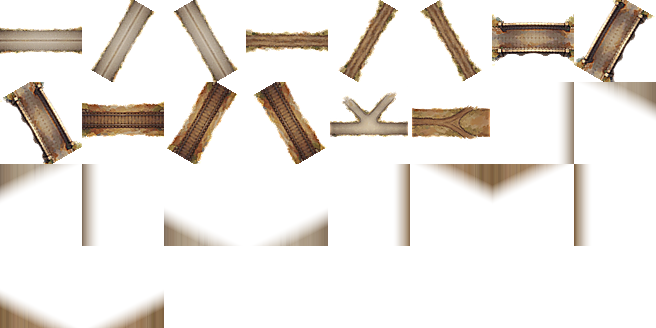
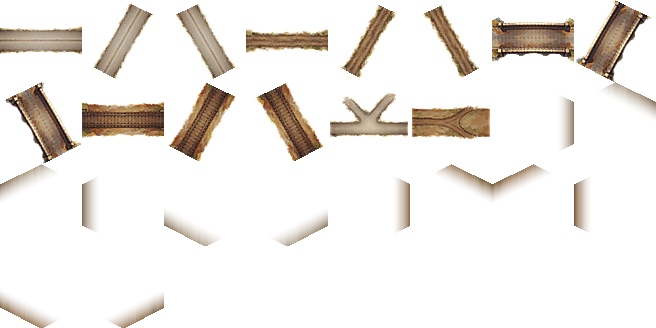
fix(map-art): лист дорог режется гексом — сетка прямоугольников с карты снята
Кадр adventure_ui показывал бежевые прямоугольники поверх гексов. Атрибуция
кадрами со скрытием слоёв: с выключенными TileMapRoad/TileMapRoadEdge_*
прямоугольники исчезают, под ними корректные гексы-дороги.

Причина: build_road_sheet клал клетки на лист без маски гекса, тогда как база и
кромка биомов маскируются (T-143: «непрозрачные углы … рисуют на карте сетку
прямоугольников»). У клетки дороги без соседей-дорог paint_roads рисует полосу
плюс все шесть кромок; каждая — прямоугольник, их объединение = залитый квадрат
клетки. Замер: пиксели вне гекса были у 22 клеток из 26.

- scripts/gen_map_art.py: build_road_sheet применяет hex_mask() — та же мера,
  что у атласа, поэтому перегенерация из raw воспроизводит текущий лист.
- game/assets/objects/world_map_roads{_fog}.webp: лист перемаскирован той же
  hex_mask и побратим тумана пересобран fog_twin() — raw-роли
  game/image-clone/map/raw/road_* в git не лежат (T-351), перегенерация
  невозможна. Срезано 8286 непрозрачных пикселей (47767 → 39481).
- scripts/check_map_art.py: инвариант формы клетки вынесен в hex_shape_check и
  вызывается от каждого носителя; добавлен roads/hex-shape. Гейт листа манифест
  дорог не читал вовсе — этим дефект и прошёл. До правки FAIL (22 из 26),
  после PASS (0 из 26).
- game/tests/smoke/test_compile_all.gd: concept_art в SKIP — gitignored выход
  генератора концепт-арта (krea2/, чужая работа в рабочем дереве) красил smoke
  тем же классом, что tmp/fixture_hero4.gd из урока 2026-11-02.
[…]

diff --git a/scripts/check_map_art.py b/scripts/check_map_art.py
@@ -48,6 +48,7 @@ CONFIG = os.path.join(ROOT, "game/data/config/map_art_gates.json")
 # Превью-атлас клетки вне дерева ассетов (T-344): клетку рисует HexCellArt.
 ATLAS = os.path.join(ROOT, "tmp/map_art/world_map_atlas.json")
 OBJECTS = os.path.join(ROOT, "game/assets/objects/world_map_objects.json")
+ROADS = os.path.join(ROOT, "game/assets/objects/world_map_roads.json")
 PROVENANCE = os.path.join(ROOT, "game/assets/PROVENANCE.md")
 PATCH = 8          # во сколько сжимается патч клетки перед сравнением
 COLOR_BITS = 5     # квант канала в патче: 5 бит гасит шум сжатия, но не склеивает тайлы
@@ -208,6 +209,46 @@ def _lattice_shifts(cells: dict) -> list[tuple[int, int]]:
                 d = (-d[0], -d[1])
             counts[d] = counts.get(d, 0) + 1
     return [d for d, _ in sorted(counts.items(), key=lambda kv: -kv[1])[:3]]
+
+
+def hex_shape_check(label: str, manifest: dict, rgba, tile: int,
+                    cfg: dict) -> tuple[str, bool, str]:
+    """Форма клетки: каждый тайл обязан быть вырезан тем же гексом, что рисует
+    движок. Квадратная (непрозрачная по всему кваду) клетка в гекс-тайлсете красит
+    прямые углы поверх соседей: ряды кладутся с шагом 3/4 высоты, квады наезжают,
+    и по карте идёт сетка прямоугольников (T-143, глазной вердикт 11.3 «налепанные
+    заплаты»). Меряются и базы, и декали границы, и декали дорог — дефект один,
+    поэтому проверка одна и вызывается от каждого носителя."""
+    mask = np.asarray(hex_mask(tile), dtype=np.uint8)
+    hex_in = np.asarray(Image.fromarray(mask).filter(ImageFilter.MinFilter(5))) > 0
+    hex_out = np.asarray(Image.fromarray(mask).filter(ImageFilter.MaxFilter(5))) < 250
+    bad = []
+    for c in manifest["cells"]:
+        x, y = int(c["atlas"][0]) * tile, int(c["atlas"][1]) * tile
+        alpha = np.asarray(rgba.crop((x, y, x + tile, y + tile)))[:, :, 3]
+        opaque = float(alpha[hex_in].mean()) / 255.0 >= float(cfg["atlas"]["min_base_opacity"])
+        corner = float(alpha[hex_out].max()) <= float(cfg["atlas"]["max_base_corner_alpha"])
+        # Внутри гекса декаль обязан полупрозрачным пером — это его природа
+        # (`atlas/decal-tone`), поэтому требовать от него непрозрачности нельзя.
+        if not corner or (c["kind"] == "base" and not opaque):
+            bad.append(c["id"])
+    return (f"{label}/hex-shape", not bad,
+            f"клеток вне гекса {len(bad)} из {len(manifest['cells'])} (порог "
+            f"{float(cfg['atlas']['min_base_opacity']):.2f} непрозрачных внутри гекса, "
+            f"угол ≤{float(cfg['atlas']['max_base_corner_alpha']):.0f})"
+            + (f" — {bad[:4]}" if bad else ""))
+
+
+def roads_checks(manifest_path: str, cfg: dict) -> list[tuple[str, bool, str]]:
+    """Лист дорог — носитель того же гекс-тайлсета, что база, и немаскированная
+    клетка рисует на карте прямоугольник (кадр adventure_ui, 2026-11-08: слой
+    дорог = сетка бежевых прямоугольников). Из атласных мер здесь одна форма
+    клетки: тонов, вариантов и швов у дорог нет."""
+    with open(manifest_path, encoding="utf-8") as f:
+        manifest = json.load(f)
+    rgba = Image.open(os.path.join(os.path.dirname(manifest_path),
+                                   manifest["image"])).convert("RGBA")
+    return [hex_shape_check("roads", manifest, rgba, int(manifest["tile"]), cfg)]
 
 
 def atlas_checks(manifest_path: str, cfg: dict) -> list[tuple[str, bool, str]]:
@@ -376,21 +417,7 @@ def atlas_checks(manifest_path: str, cfg: dict) -> list[tuple[str, bool, str]]:
     # тайлсете красит прямые углы поверх соседей: ряды кладутся с шагом 3/4 высоты,
     # квады наезжают, и по карте идёт сетка прямоугольников (T-143, глазной вердикт
     # 11.3 «налепанные заплаты»). Меряются и базы, и декали границы — дефект один.
-    bad = []
-    for c in manifest["cells"]:
-        x, y = int(c["atlas"][0]) * tile, int(c["atlas"][1]) * tile
-        alpha = np.asarray(rgba.crop((x, y, x + tile, y + tile)))[:, :, 3]
-        opaque = float(alpha[hex_in].mean()) / 255.0 >= float(cfg["atlas"]["min_base_opacity"])
-        corner = float(alpha[hex_out].max()) <= float(cfg["atlas"]["max_base_corner_alpha"])
-        # Внутри гекса декаль обязан полупрозрачным пером — это его природа
-        # (`atlas/decal-tone`), поэтому требовать от него непрозрачности нельзя.
-        if not corner or (c["kind"] == "base" and not opaque):
-            bad.append(c["id"])
-    out.append(("atlas/hex-shape", not bad,
-                f"клеток вне гекса {len(bad)} из {len(manifest['cells'])} (порог "
-                f"{float(cfg['atlas']['min_base_opacity']):.2f} непрозрачных внутри гекса, "
-                f"угол ≤{float(cfg['atlas']['max_base_corner_alpha']):.0f})"
-                + (f" — {bad[:4]}" if bad else "")))
+    out.append(hex_shape_check("atlas", manifest, rgba, tile, cfg))
 
     # — замыкание переходов: у каждого биома все шесть направлений (см. test_tile_transitions) —
     # Словарь сторон = рёбра остроконечного шестиугольника: сетка odd-r
@@ -810,6 +837,7 @@ def main() -> int:
     ap.add_argument("--config", default=CONFIG)
     ap.add_argument("--atlas", default=ATLAS)
     ap.add_argument("--objects", default=OBJECTS)
+    ap.add_argument("--roads", default=ROADS)
     ap.add_argument("--json", action="store_true")
     ap.add_argument("--self-test", action="store_true",
                     help="мутационная проверка гардов на синтетическом образце")
@@ -832,7 +860,8 @@ def main() -> int:
     else:
         skipped.append(("frame/*", "нет --shot: базовый снимок не переснят"))
     for label, path, run in (("atlas/*", args.atlas, atlas_checks),
-                             ("objects/*", args.objects, object_checks)):
+                             ("objects/*", args.objects, object_checks),
+                             ("roads/*", args.roads, roads_checks)):
         if os.path.exists(path):
             checks += run(path, cfg)
         else:

diff --git a/scripts/gen_map_art.py b/scripts/gen_map_art.py
@@ -487,7 +487,14 @@ def build_road_sheet(roads: list[dict]) -> list[dict]:
                  "surface": surface(role), "side": side}, path)
 
     sheet = Image.new("RGBA", (8 * TILE, math.ceil(len(tiles) / 8) * TILE), (0, 0, 0, 0))
+    mask = hex_mask()
     for i, t in enumerate(tiles):
+        t = t.convert("RGBA")
+        # Маска гекса — та же, что у базы и кромки биомов (T-143): движок рисует
+        # каждый тайл квадратным квадом, поэтому немаскированные углы полосы и все
+        # шесть кромок клетки без соседей-дорог складываются в залитый прямоугольник
+        # поверх гексов (кадр adventure_ui, 2026-11-08: слой дорог = сетка прямоугольников).
+        t.putalpha(Image.fromarray(np.minimum(np.asarray(mask), np.asarray(t.split()[3]))))
         sheet.paste(t, ((i % 8) * TILE, (i // 8) * TILE))
     ROAD_IMG.parent.mkdir(parents=True, exist_ok=True)
     sheet.save(ROAD_IMG, "WEBP", quality=QUALITY, lossless=LOSSLESS)
